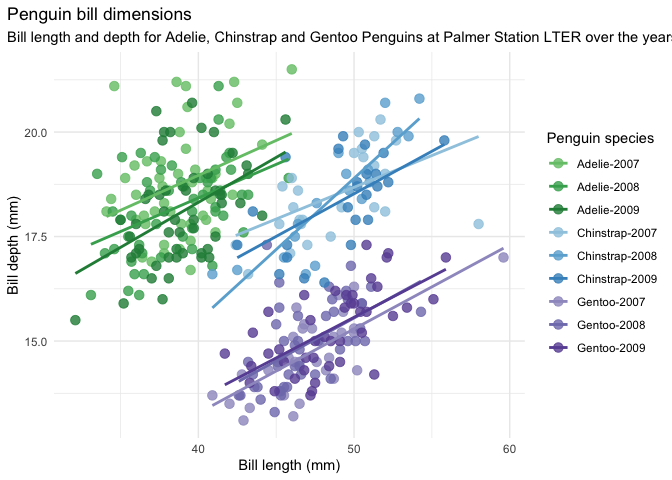
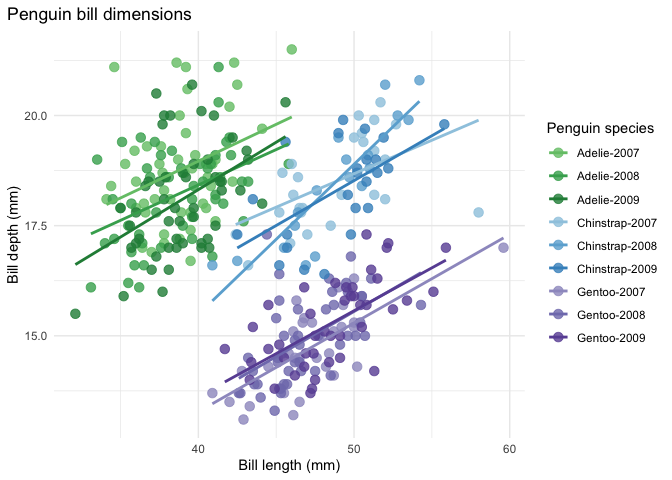
new updates to the main page

diff --git a/docs/index.html b/docs/index.html
@@ -120,19 +120,22 @@
 <div class="sourceCode"><pre class="downlit sourceCode r">
 <code class="sourceCode R"><span class="fu"><a href="reference/microshades_palette.html">microshades_palette</a></span><span class="op">(</span><span class="st">"micro_cvd_blue"</span><span class="op">)</span></code></pre></div>
 <p><img src="reference/figures/README-cvd_blue-1.png" width="100%"></p>
+<p>To learn more about the different functions and shades in microshades, please visit the <a href="https://KarstensLab.github.io/microshades/reference">reference</a> section of our website.</p>
 </div>
-<div id="phyloseq-useage" class="section level2">
+<div id="phyloseq-combatibility" class="section level2">
 <h2 class="hasAnchor">
-<a href="#phyloseq-useage" class="anchor"></a>Phyloseq useage</h2>
-<p>For detailed tutorials on how to use microshades function with phyloseq objects, please reference vignette articles on the <a href="https://KarstensLab.github.io/microshades">website</a>.</p>
-<p>Here is an example of the plot generated with microshades on Curated Metagenomic Data of the Human Microbiome.</p>
+<a href="#phyloseq-combatibility" class="anchor"></a>Phyloseq Combatibility</h2>
+<p>For detailed tutorials on how to use microshades function with phyloseq objects, please review the <a href="https://KarstensLab.github.io/microshades">vignette articles</a> articles on the website.</p>
+<p>Here is an example of the plot generated with microshades on Curated Metagenomic Data of the Human Microbiome. On the left is the original stacked barplot made using phyloseq. On the right are two barplot of the same data, with microshades palettes and functions applied.</p>
 <p><img src="reference/figures/plot_CMD.png" width="100%" style="display: block; margin: auto;"></p>
-<p>microshades uses coloring to correspond with taxonomic group and subgroup levels. In this example, the phylum and genus information are explored. Darker shades indicate the most abundant genera for each phylum, and lighter shades are less abundant. Users can additionally reorder the samples based on a specified taxonomic rank and name, in this example by genus “Eubacterium” abundance.</p>
+<p>microshades uses coloring to correspond with taxonomic group and subgroup levels. In this example, the phylum and genus information are explored. Darker shades indicate the most abundant genera for each phylum, and lighter shades are less abundant. Users can additionally reorder the samples based on a specified taxonomic rank and name, or reorder the phylum groups.</p>
 </div>
-<div id="apply-the-microshades-palette-to-other-plots" class="section level2">
+<div id="apply-the-microshades-palette-to-non-microbiome-data" class="section level2">
 <h2 class="hasAnchor">
-<a href="#apply-the-microshades-palette-to-other-plots" class="anchor"></a>Apply the microshades palette to other plots</h2>
-<p>To only use and apply a microshades palette color to an existing graph, use <code><a href="https://ggplot2.tidyverse.org/reference/scale_manual.html">scale_fill_manual()</a></code>. Below is an example of how to apply the color palettes to a different type of plot.</p>
+<a href="#apply-the-microshades-palette-to-non-microbiome-data" class="anchor"></a>Apply the microshades palette to non-microbiome data</h2>
+<p>To apply a microshades palette color to a plot, use <code><a href="https://ggplot2.tidyverse.org/reference/scale_manual.html">scale_fill_manual()</a></code>.</p>
+<p>The following examples use the palmerpenguins dataset to show how to apply the color palettes to non-microbiome data.</p>
+<p>This first example examines the number of each species of penguin. The different color shades represent the island that the penguin was located.</p>
 <div class="sourceCode"><pre class="downlit sourceCode r">
 <code class="sourceCode R"><span class="kw"><a href="https://rdrr.io/r/base/library.html">library</a></span><span class="op">(</span><span class="va"><a href="https://allisonhorst.github.io/palmerpenguins/">palmerpenguins</a></span><span class="op">)</span>
 <span class="kw"><a href="https://rdrr.io/r/base/library.html">library</a></span><span class="op">(</span><span class="va"><a href="https://dplyr.tidyverse.org">dplyr</a></span><span class="op">)</span>
@@ -151,6 +154,7 @@
 <span class="fu"><a href="https://ggplot2.tidyverse.org/reference/ggplot.html">ggplot</a></span><span class="op">(</span><span class="va">penguins</span>, <span class="fu"><a href="https://ggplot2.tidyverse.org/reference/aes.html">aes</a></span><span class="op">(</span><span class="va">species</span>, fill <span class="op">=</span> <span class="va">island</span><span class="op">)</span><span class="op">)</span> <span class="op">+</span> <span class="fu"><a href="https://ggplot2.tidyverse.org/reference/geom_bar.html">geom_bar</a></span><span class="op">(</span><span class="op">)</span> <span class="op">+</span> 
          <span class="fu"><a href="https://ggplot2.tidyverse.org/reference/scale_manual.html">scale_fill_manual</a></span><span class="op">(</span>values <span class="op">=</span> <span class="fu"><a href="reference/microshades_palette.html">microshades_palette</a></span><span class="op">(</span><span class="st">"micro_green"</span><span class="op">)</span><span class="op">)</span></code></pre></div>
 <p><img src="reference/figures/README-plot%20example-1.png" width="100%"></p>
+<p>This next example examines the flipper length to body mass measurements between different penguin species. To add an enhanced detail to the visual, a combination variable was created in this example that contains the species and year. The different base colors represent the species and the shades represent the year that the data was collected.</p>
 <div class="sourceCode"><pre class="downlit sourceCode r">
 <code class="sourceCode R"><span class="va">penguins_mod</span> <span class="op">&lt;-</span> <span class="va">penguins</span> <span class="op">%&gt;%</span> <span class="fu"><a href="https://dplyr.tidyverse.org/reference/mutate.html">mutate</a></span><span class="op">(</span>combination_variable <span class="op">=</span> <span class="fu"><a href="https://rdrr.io/r/base/paste.html">paste</a></span><span class="op">(</span><span class="va">species</span>, <span class="va">year</span>, sep <span class="op">=</span> <span class="st">"-"</span><span class="op">)</span><span class="op">)</span>
 
@@ -175,10 +179,9 @@
   <span class="fu"><a href="https://ggplot2.tidyverse.org/reference/facet_wrap.html">facet_wrap</a></span><span class="op">(</span><span class="op">~</span><span class="va">species</span><span class="op">)</span>
 <span class="co">#&gt; Warning: Removed 2 rows containing missing values (geom_point).</span></code></pre></div>
 <p><img src="reference/figures/README-unnamed-chunk-4-1.png" width="100%"></p>
+<p>This last example examines the bill length to depth measurements between different penguin species. The combination variable generated for the previous example is used for this plot as well. The different base colors represent the species and the shades represent the year that the data was collected.</p>
 <div class="sourceCode"><pre class="downlit sourceCode r">
-<code class="sourceCode R">
-
-  
+<code class="sourceCode R"> 
 <span class="va">bill_len_dep</span> <span class="op">&lt;-</span> <span class="fu"><a href="https://ggplot2.tidyverse.org/reference/ggplot.html">ggplot</a></span><span class="op">(</span>data <span class="op">=</span> <span class="va">penguins_mod</span>,
                          <span class="fu"><a href="https://ggplot2.tidyverse.org/reference/aes.html">aes</a></span><span class="op">(</span>x <span class="op">=</span> <span class="va">bill_length_mm</span>,
                              y <span class="op">=</span> <span class="va">bill_depth_mm</span>,
@@ -190,7 +193,6 @@
   <span class="fu"><a href="https://ggplot2.tidyverse.org/reference/ggtheme.html">theme_minimal</a></span><span class="op">(</span><span class="op">)</span> <span class="op">+</span>
   <span class="fu"><a href="https://ggplot2.tidyverse.org/reference/scale_manual.html">scale_color_manual</a></span><span class="op">(</span>values <span class="op">=</span> <span class="va">hex_values</span>, na.translate <span class="op">=</span> <span class="cn">FALSE</span><span class="op">)</span> <span class="op">+</span>
   <span class="fu"><a href="https://ggplot2.tidyverse.org/reference/labs.html">labs</a></span><span class="op">(</span>title <span class="op">=</span> <span class="st">"Penguin bill dimensions"</span>,
-       subtitle <span class="op">=</span> <span class="st">"Bill length and depth for Adelie, Chinstrap and Gentoo Penguins at Palmer Station LTER over the years 2007-2009"</span>,
        x <span class="op">=</span> <span class="st">"Bill length (mm)"</span>,
        y <span class="op">=</span> <span class="st">"Bill depth (mm)"</span>,
        color <span class="op">=</span> <span class="st">"Penguin species"</span>,

diff --git a/docs/articles/microshades-HMP2.html b/docs/articles/microshades-HMP2.html
@@ -85,7 +85,7 @@
       <h1 data-toc-skip>microshades-HMP2</h1>
                         <h4 class="author">Erin Dahl</h4>
             
-            <h4 class="date">March 5, 2021</h4>
+            <h4 class="date">March 16, 2021</h4>
       
       
       <div class="hidden name"><code>microshades-HMP2.Rmd</code></div>

diff --git a/docs/articles/microshades-CMD.html b/docs/articles/microshades-CMD.html
@@ -85,7 +85,7 @@
       <h1 data-toc-skip>microshades-CMD</h1>
                         <h4 class="author">Erin Dahl</h4>
             
-            <h4 class="date">March 5, 2021</h4>
+            <h4 class="date">March 16, 2021</h4>
       
       
       <div class="hidden name"><code>microshades-CMD.Rmd</code></div>

diff --git a/docs/articles/microshades-HMP.html b/docs/articles/microshades-HMP.html
@@ -85,7 +85,7 @@
       <h1 data-toc-skip>microshades-HMP</h1>
                         <h4 class="author">Erin Dahl</h4>
             
-            <h4 class="date">March 5, 2021</h4>
+            <h4 class="date">March 16, 2021</h4>
       
       
       <div class="hidden name"><code>microshades-HMP.Rmd</code></div>

diff --git a/docs/articles/microshades-GP.html b/docs/articles/microshades-GP.html
@@ -85,7 +85,7 @@
       <h1 data-toc-skip>microshades-GP</h1>
                         <h4 class="author">Erin Dahl</h4>
             
-            <h4 class="date">March 5, 2021</h4>
+            <h4 class="date">March 16, 2021</h4>
       
       
       <div class="hidden name"><code>microshades-GP.Rmd</code></div>

diff --git a/README.md b/README.md
@@ -52,19 +52,25 @@ microshades_palette("micro_cvd_blue")
 
 <img src="man/figures/README-cvd_blue-1.png" width="100%" />
 
-## Phyloseq useage
+To learn more about the different functions and shades in microshades, please visit the [reference](https://KarstensLab.github.io/microshades/reference) section of our website.
 
-For detailed tutorials on how to use microshades function with phyloseq objects, please reference vignette articles on the [website](https://KarstensLab.github.io/microshades).
+## Phyloseq Combatibility
 
-Here is an example of the plot generated with microshades on Curated Metagenomic Data of the Human Microbiome.
+For detailed tutorials on how to use microshades function with phyloseq objects, please review the [vignette articles](https://KarstensLab.github.io/microshades) articles on the website.
+
+Here is an example of the plot generated with microshades on Curated Metagenomic Data of the Human Microbiome. On the left is the original stacked barplot made using phyloseq. On the right are two barplot of the same data, with microshades palettes and functions applied.
 
 <img src="man/figures/plot_CMD.png" width="100%" style="display: block; margin: auto;" />
 
-microshades uses coloring to correspond with taxonomic group and subgroup levels. In this example, the phylum and genus information are explored. Darker shades indicate the most abundant genera for each phylum, and lighter shades are less abundant. Users can additionally reorder the samples based on a specified taxonomic rank and name, in this example by genus "Eubacterium" abundance.
+microshades uses coloring to correspond with taxonomic group and subgroup levels. In this example, the phylum and genus information are explored. Darker shades indicate the most abundant genera for each phylum, and lighter shades are less abundant. Users can additionally reorder the samples based on a specified taxonomic rank and name, or reorder the phylum groups.
 
-## Apply the microshades palette to other plots
+## Apply the microshades palette to non-microbiome data
 
-To only use and apply a microshades palette color to an existing graph, use `scale_fill_manual()`. Below is an example of how to apply the color palettes to a different type of plot.
+To apply a microshades palette color to a plot, use `scale_fill_manual()`.
+
+The following examples use the palmerpenguins dataset to show how to apply the color palettes to non-microbiome data.
+
+This first example examines the number of each species of penguin. The different color shades represent the island that the penguin was located.
 
 ``` r
 library(palmerpenguins)
@@ -86,6 +92,8 @@ ggplot(penguins, aes(species, fill = island)) + geom_bar() +
 ```
 
 <img src="man/figures/README-plot example-1.png" width="100%" />
+
+This next example examines the flipper length to body mass measurements between different penguin species. To add an enhanced detail to the visual, a combination variable was created in this example that contains the species and year. The different base colors represent the species and the shades represent the year that the data was collected.
 
 ``` r
 penguins_mod <- penguins %>% mutate(combination_variable = paste(species, year, sep = "-"))
@@ -114,10 +122,10 @@ ggplot(penguins_mod, aes(x = flipper_length_mm,
 
 <img src="man/figures/README-unnamed-chunk-4-1.png" width="100%" />
 
+This last example examines the bill length to depth measurements between different penguin species. The combination variable generated for the previous example is used for this plot as well. The different base colors represent the species and the shades represent the year that the data was collected.
+
 ``` r
-
-
-  
+ 
 bill_len_dep <- ggplot(data = penguins_mod,
                          aes(x = bill_length_mm,
                              y = bill_depth_mm,
@@ -129,7 +137,6 @@ bill_len_dep <- ggplot(data = penguins_mod,
   theme_minimal() +
   scale_color_manual(values = hex_values, na.translate = FALSE) +
   labs(title = "Penguin bill dimensions",
-       subtitle = "Bill length and depth for Adelie, Chinstrap and Gentoo Penguins at Palmer Station LTER over the years 2007-2009",
        x = "Bill length (mm)",
        y = "Bill depth (mm)",
        color = "Penguin species",
